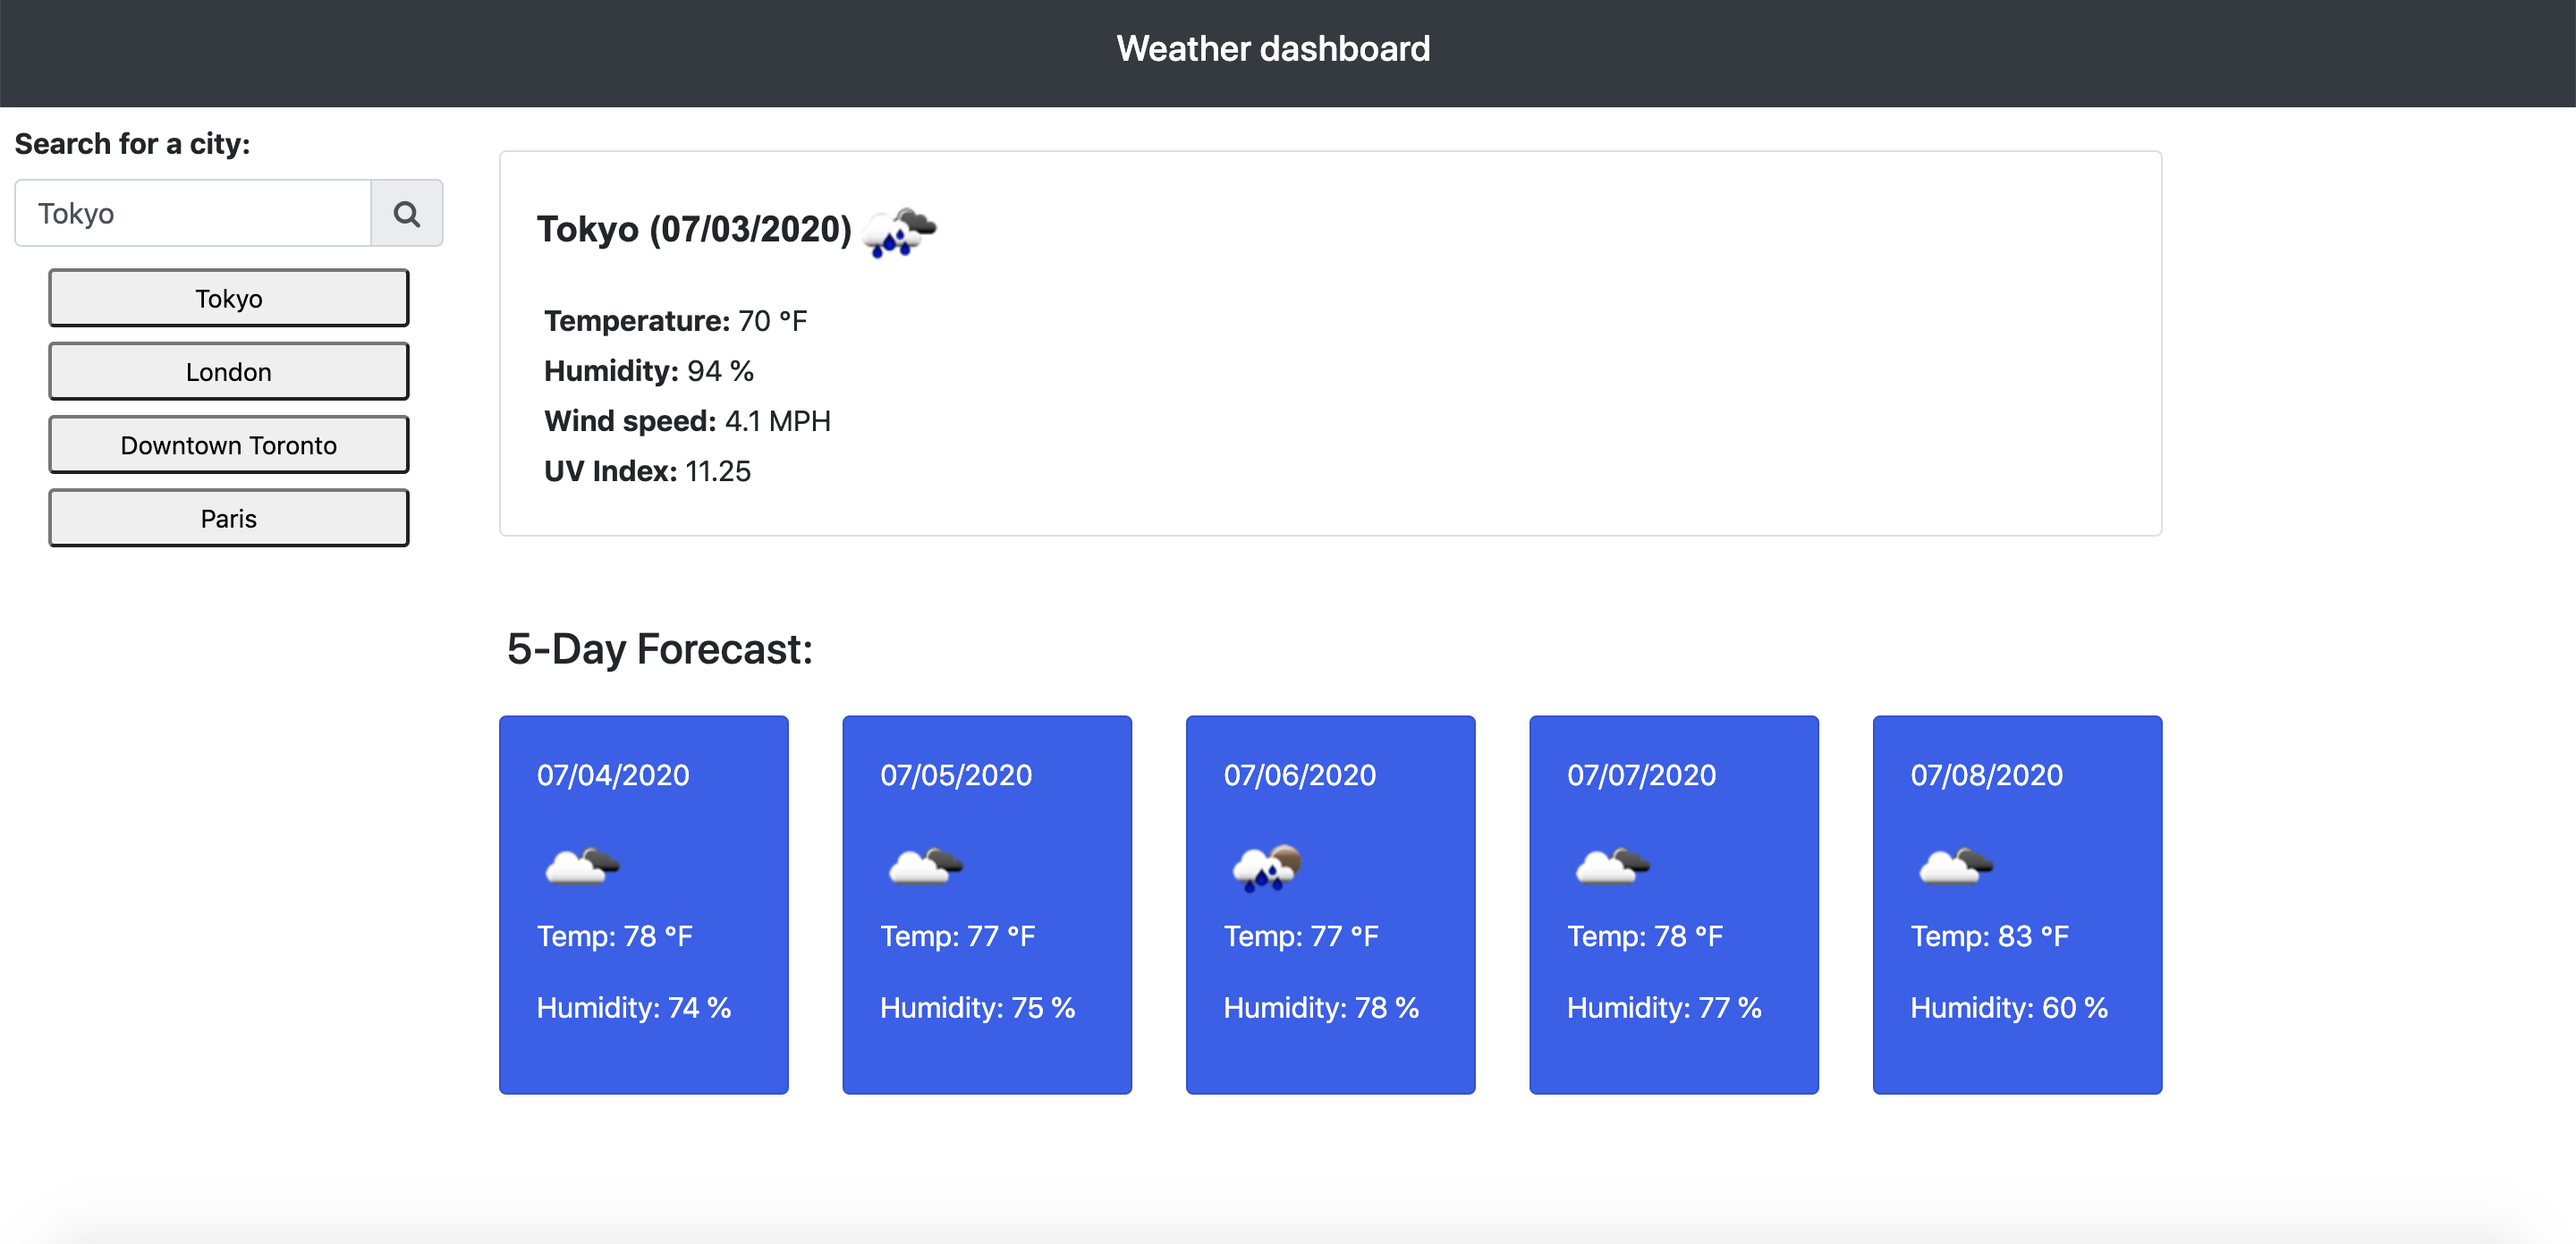
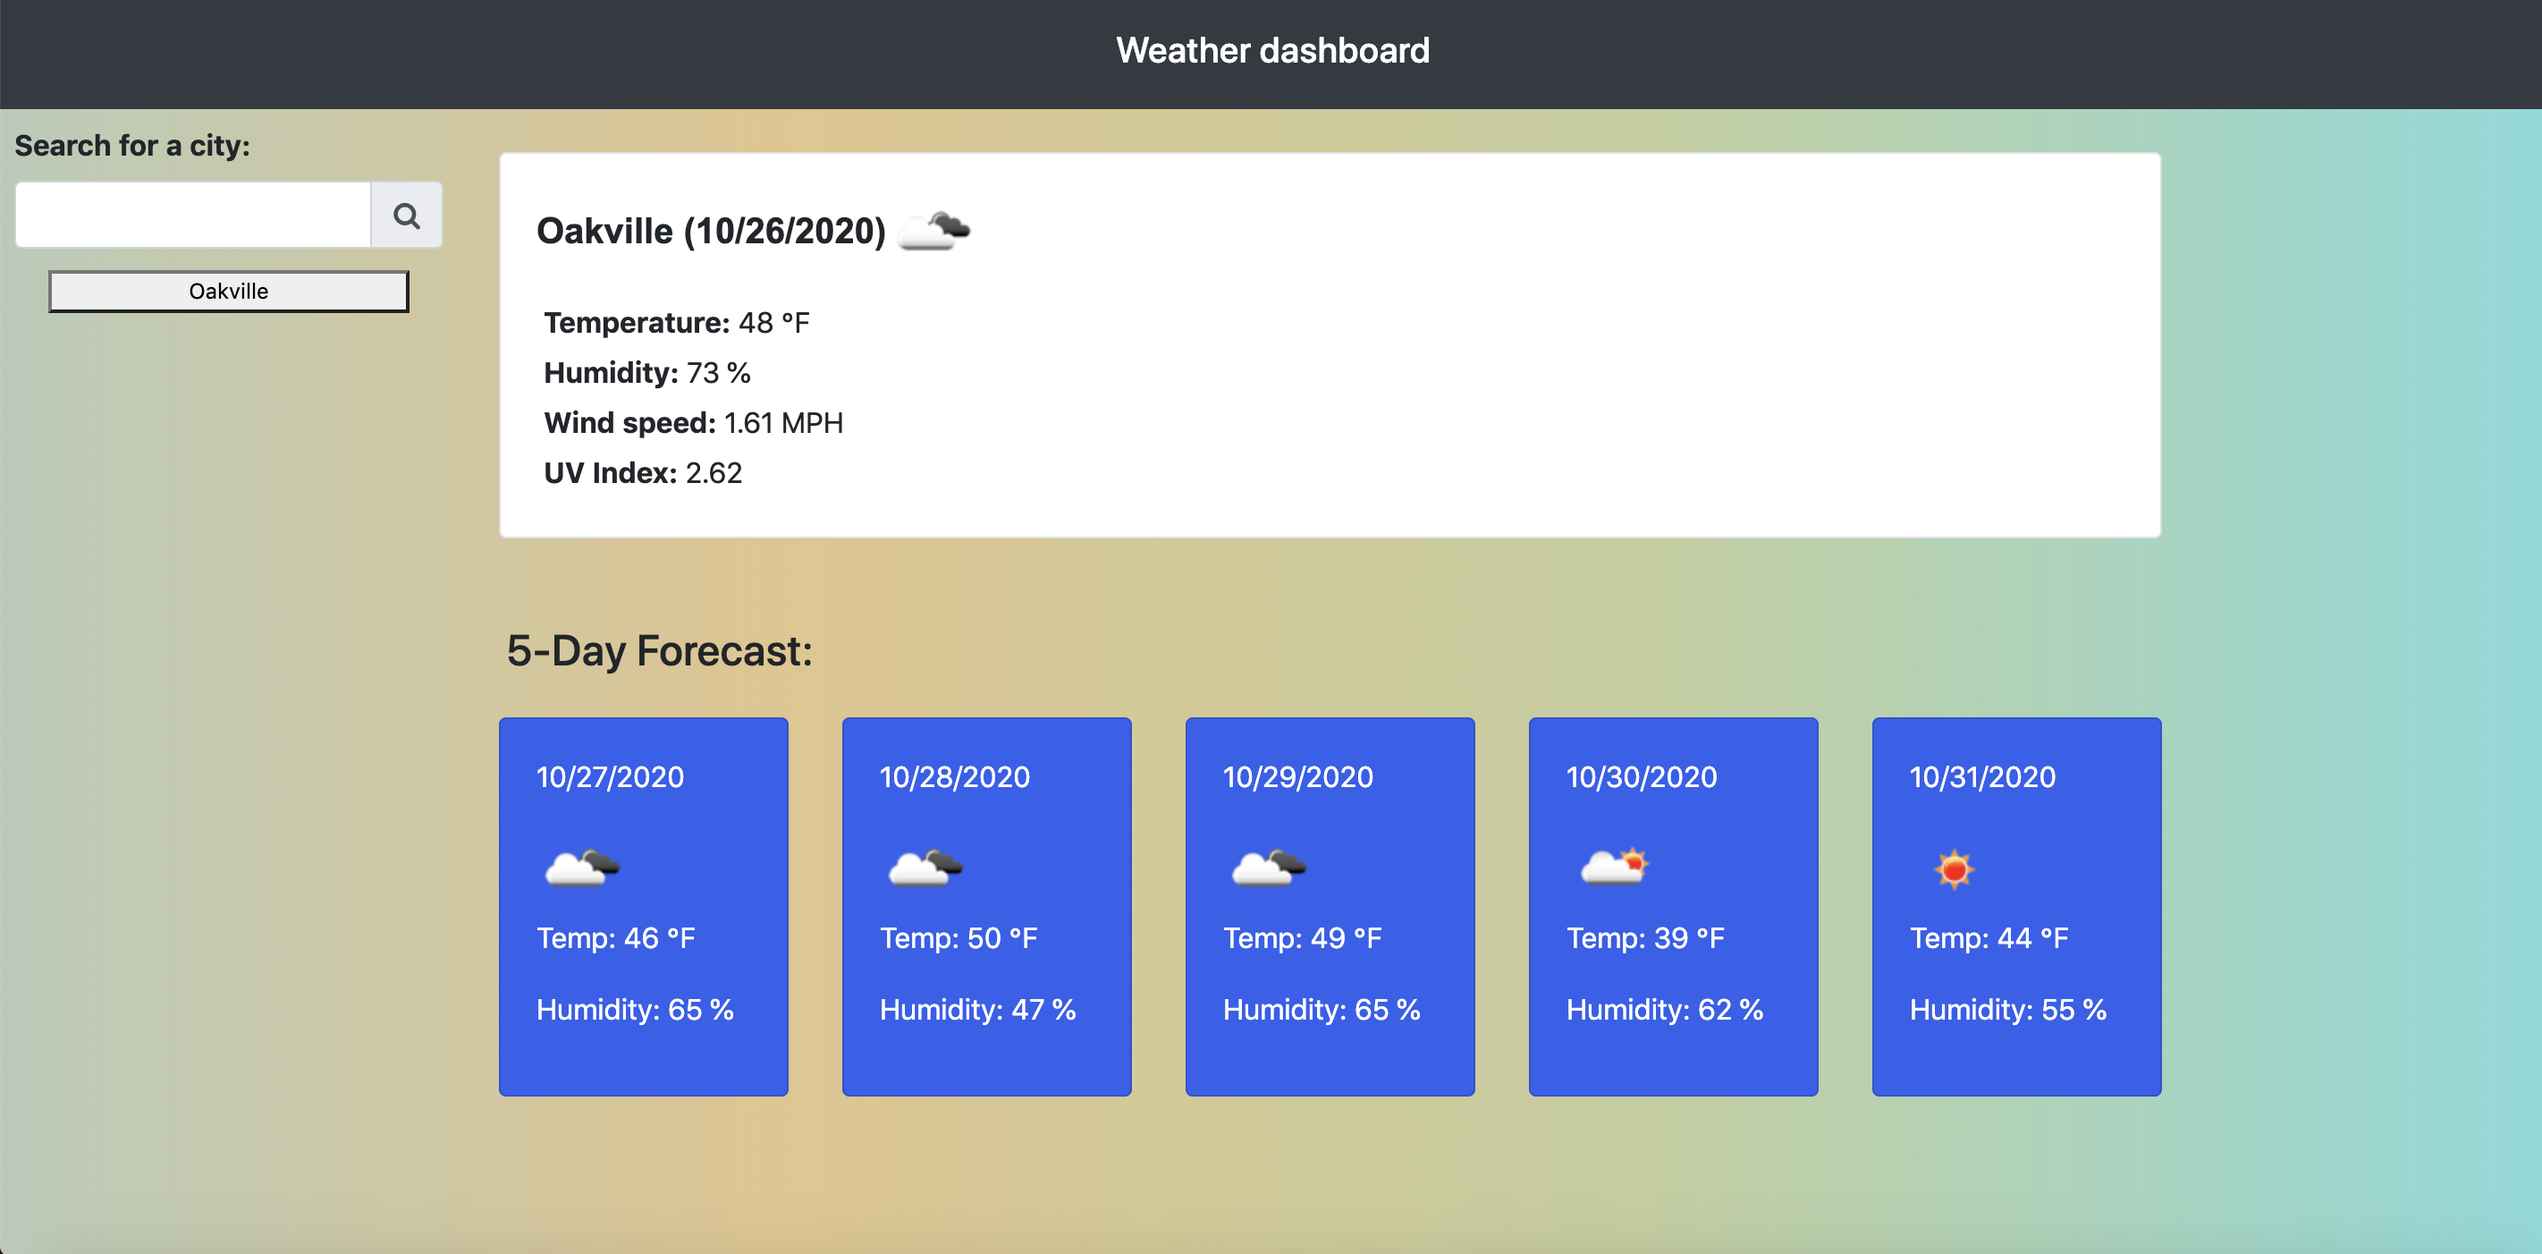
added background color to website

diff --git a/assets/style.css b/assets/style.css
@@ -11,3 +11,15 @@
 li {
   list-style-type: none;
 }
+
+body {
+  background-image: linear-gradient(
+    to right,
+    #e4afcb 0%,
+    #b8cbb8 0%,
+    #b8cbb8 0%,
+    #e2c58b 30%,
+    #c2ce9c 64%,
+    #7edbdc 100%
+  );
+}
